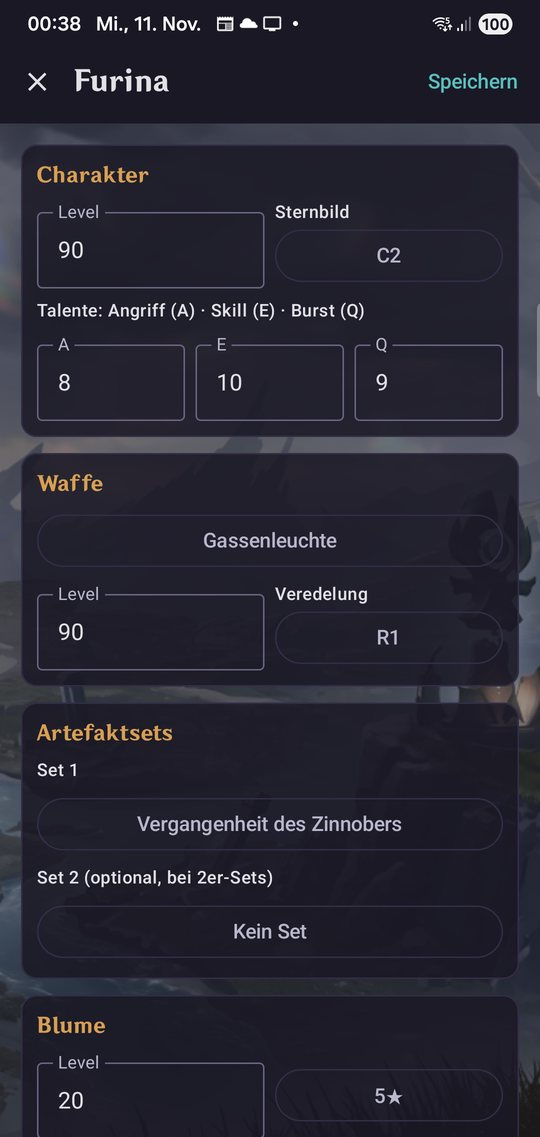
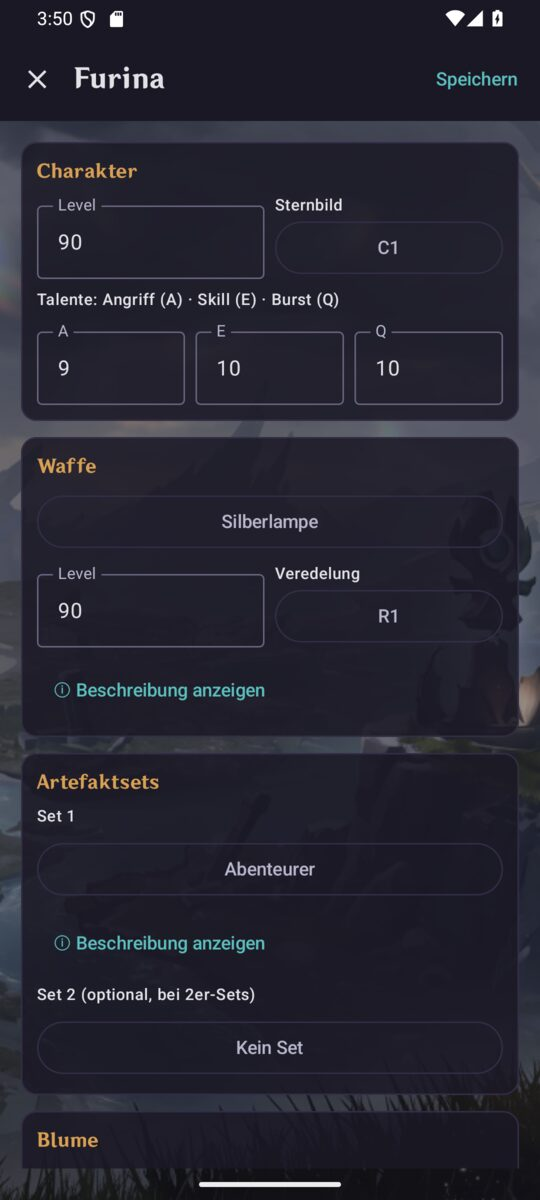
Anleitung aktualisiert: Suche, Beschreibungen, Teilnamen, eigene Versionsnummern; neue Screenshots

diff --git a/ANLEITUNG.md b/ANLEITUNG.md
@@ -1,6 +1,6 @@
 # Anleitung für Mitspieler
 
-Mit dem **Team & Build Manager** hältst du deine Genshin-Impact-Teams und die Builds deiner Charaktere an einem Ort fest: Level, Sternbild, Talente, Waffe, Artefaktsets und die Werte aller fünf Artefakte. Du kannst ihn im **Browser** oder als **Android-App** (Handy und Tablet) nutzen; beides greift auf dasselbe Konto zu.
+Mit dem **Team & Build Manager** hältst du deine Genshin-Impact-Teams und die Builds deiner Charaktere an einem Ort fest: Level, Sternbild, Talente, Waffe, Artefaktsets und die Werte aller fünf Artefakte (samt Teilname, Hauptwert und Nebenwerten). Du kannst ihn im **Browser** oder als **Android-App** (Handy und Tablet) nutzen; beides greift auf dasselbe Konto zu.
 
 <p align="center">
   <img src="docs/screenshots/web-overview.jpg" alt="Übersicht aller Teams im Browser" width="720">
@@ -10,13 +10,13 @@ Mit dem **Team & Build Manager** hältst du deine Genshin-Impact-Teams und die B
 
 Eine Technik-Beschreibung für Entwickler steht in der [README](README.md).
 
-**Inhalt:** [Loslegen](#loslegen) · [Teams und Builds](#teams-und-builds) · [Android-App](#android-app) · [Passwort ändern](#passwort-ändern) · [Konto löschen](#konto-löschen) · [Über-Dialog und Version](#über-dialog-und-version) · [Daten mitnehmen](#daten-mitnehmen-oder-übertragen) · [Neue Charaktere eintragen](#neue-charaktere-und-waffen-eintragen-administratoren) · [Desktop-Version](#desktop-version-optional) · [Wenn etwas nicht klappt](#wenn-etwas-nicht-klappt)
+**Inhalt:** [Loslegen](#loslegen) · [Teams und Builds](#teams-und-builds) · [Suchen und Beschreibungen](#suchen-filtern-und-beschreibungen) · [Android-App](#android-app) · [Passwort ändern](#passwort-ändern) · [Konto löschen](#konto-löschen) · [Über-Dialog und Version](#über-dialog-und-version) · [Daten mitnehmen](#daten-mitnehmen-oder-übertragen) · [Neue Charaktere eintragen](#neue-charaktere-und-waffen-eintragen-administratoren) · [Desktop-Version](#desktop-version-optional) · [Wenn etwas nicht klappt](#wenn-etwas-nicht-klappt)
 
 ## Loslegen
 
 1. **Konto anlegen:** Öffne <https://genshin-manager.media-matrix.de> und wähle „Jetzt registrieren“. Der Benutzername braucht mindestens 3 Zeichen, das Passwort mindestens 6.
 2. **Anmelden** mit demselben Konto, im Browser oder in der App.
-3. **Teams anlegen:** Ein Team besteht aus bis zu 4 Charakteren. Name vergeben, Charaktere aus der Liste wählen (mit Suche), speichern.
+3. **Teams anlegen:** Ein Team besteht aus bis zu 4 Charakteren. Name vergeben, Charaktere aus der Liste wählen (mit Suche und Filtern), speichern. Ein bestehendes Team kannst du jederzeit **umbenennen**.
 4. **Builds pflegen:** Öffne in einem Team einen Charakter und lege seinen Build an oder bearbeite ihn.
 
 <table>
@@ -31,7 +31,9 @@ In der App ist das Feld **„Server“** schon mit `https://genshin-manager.medi
 ## Teams und Builds
 
 - **Ein Build gehört zum Charakter, nicht zum Team.** Steht Furina in drei Teams, hat sie überall denselben Build. Änderst du ihn, ändert er sich in allen Teams.
-- **Teams sortieren:** Mit den Pfeilen auf der Teamkarte verschiebst du Teams; im Browser geht das auch per Drag & Drop. Die Reihenfolge wird gespeichert.
+- **Teams sortieren:** Mit den Pfeilen auf der Teamkarte verschiebst du Teams; im Browser geht das auch per Drag & Drop. Auch die Reihenfolge der Charaktere im Team lässt sich ändern. Alles wird gespeichert.
+- **Startseite:** Nach der Anmeldung siehst du alle deine Teams auf einen Blick; ein Klick auf ein Team öffnet es.
+- **Stat-Namen:** Verteidigung heißt überall „VTD“ (also „VTD%“ und „VTD (Fix)“). Ältere Builds mit „DEF“ werden automatisch umgestellt.
 - **Deine Daten sind nur deine:** Jedes Konto sieht nur die eigenen Teams und Builds.
 
 **Im Browser** findest du Alle Teams, Neues Team, Exportieren, Importieren, Logout, Passwort ändern, Konto löschen und Über im Benutzermenü oben rechts (für Administratoren zusätzlich „Stammdaten aktualisieren“ nach „Importieren“):
@@ -40,7 +42,13 @@ In der App ist das Feld **„Server“** schon mit `https://genshin-manager.medi
   <img src="docs/screenshots/web-menu.jpg" alt="Benutzermenü im Browser" width="560">
 </p>
 
-Einen Charakter öffnest du per Klick und trägst Level, Sternbild, Waffe, Artefaktsets und die Werte der fünf Artefakt-Slots ein:
+Ein einzelnes Team zeigt die Charaktere mit Level und Sternbild; ein Klick auf einen Charakter öffnet seinen Build:
+
+<p align="center">
+  <img src="docs/screenshots/web-team.jpg" alt="Ein Team im Browser" width="720">
+</p>
+
+Dort trägst du Level, Sternbild, Talente, Waffe, Artefaktsets und die Werte der fünf Artefakt-Slots ein. Je Slot wählst du den **Namen des Teils** (z. B. „Zuflucht des Gladiators“) aus einer Liste mit Suchfeld: Die Teile deiner gewählten Sets stehen oben, darunter alle anderen, damit auch ein Off-Piece (bei 4er-Sets oder Mischungen) möglich ist.
 
 <p align="center">
   <img src="docs/screenshots/web-build.jpg" alt="Build eines Charakters im Browser" width="720">
@@ -58,6 +66,23 @@ Einen Charakter öffnest du per Klick und trägst Level, Sternbild, Waffe, Artef
 
 Beim Verlassen mit ungespeicherten Änderungen fragt die App nach, bevor sie etwas verwirft.
 
+## Suchen, Filtern und Beschreibungen
+
+- **Charaktere suchen:** Die Auswahl hat ein Suchfeld und Filter nach **Region**, **Element** und **Seltenheit**. Die Regionen entstehen aus den vorhandenen Charakteren; neue Regionen erscheinen von selbst.
+- **Waffen suchen:** Filter nach **Waffentyp** und **Seltenheit** plus Suchfeld.
+- **Beschreibungen:** Fährst du im Browser mit der Maus über ein Artefaktset, bekommst du die **Set-Boni** (1er/2er/4er); an der Waffe steht das **Passiv**, passend zur gewählten Veredelung. Am Desktop funktioniert das genauso. In der **Android-App** tippst du auf „ⓘ Beschreibung anzeigen“, um den Text aufzuklappen.
+
+<table>
+  <tr>
+    <td align="center"><img src="docs/screenshots/web-character-search.jpg" alt="Charaktersuche im Browser" width="420"><br><sub>Charaktere filtern</sub></td>
+    <td align="center"><img src="docs/screenshots/web-weapon-search.jpg" alt="Waffensuche im Browser" width="420"><br><sub>Waffen filtern, mit Passiv</sub></td>
+  </tr>
+</table>
+
+<p align="center">
+  <img src="docs/screenshots/android-phone-info.jpg" alt="Aufgeklappte Waffenbeschreibung in der App" width="240">
+</p>
+
 ## Android-App
 
 **Voraussetzung:** Android 8.0 oder neuer. Die App gibt es nicht im Play Store; du bekommst die Datei `app-release.apk` direkt von mir.
@@ -70,7 +95,7 @@ Beim Verlassen mit ungespeicherten Änderungen fragt die App nach, bevor sie etw
 **Aktualisieren:** Neue APK einfach über die alte installieren. Deine Anmeldung und Daten bleiben erhalten.
 
 **Handy und Tablet**
-- Das **Handy** bleibt im Hochformat, mit einer Spalte.
+- Das **Handy** zeigt eine Spalte.
 - Auf dem **Tablet** darf der Bildschirm gedreht werden. Teams stehen dort in zwei (Hochformat) oder drei Spalten (Querformat), Builds zweispaltig, sodass nichts verschenkt wird:
 
 <table>
@@ -89,7 +114,7 @@ Beim Bearbeiten stehen die Eingabefelder auf dem Tablet ebenfalls in zwei Spalte
 **Menü (⋮ oben rechts):** Abmelden, Über (Version) und Konto löschen (ein „Passwort ändern“ gibt es in der App nicht, das geht im Browser). „Neu laden“ (Pfeil daneben) holt den aktuellen Stand vom Server.
 
 <p align="center">
-  <img src="docs/screenshots/android-tablet-menu.jpg" alt="Menü der App" width="520">
+  <img src="docs/screenshots/android-phone-menu.jpg" alt="Menü der App" width="240">
 </p>
 
 **Ohne Internet:** Die zuletzt geladenen Teams und Builds lassen sich auch offline ansehen. Bearbeiten geht nur mit Verbindung; die App zeigt dann „Offline – Stand vom …“ an. Über „Neu laden“ wird es erneut versucht.
@@ -122,7 +147,7 @@ Du bestätigst mit deinem Passwort. Stimmt es nicht, bleibt alles unverändert u
 
 ## Über-Dialog und Version
 
-Im Browser (Benutzermenü → „Über“), in der App (Menü ⋮ → „Über“) und am Desktop (Hilfe → „Über…“) zeigt ein kleiner Dialog die **Version**, einen Hinweis zum Fanprojekt und das Logo von the media-matrix. Ein Klick bzw. Tipp auf das Logo öffnet www.media-matrix.de. Nenne mir die Version, wenn du einen Fehler meldest: Web, Android und Desktop haben dieselbe Nummer.
+Im Browser (Benutzermenü → „Über“), in der App (Menü ⋮ → „Über“) und am Desktop (Hilfe → „Über…“) zeigt ein kleiner Dialog die **Version**, einen Hinweis zum Fanprojekt und das Logo von the media-matrix. Ein Klick bzw. Tipp auf das Logo öffnet www.media-matrix.de. Nenne mir die Version, wenn du einen Fehler meldest: Die drei Varianten haben **eigene Versionsnummern** (aktuell Web 1.8.0, Android und Desktop 1.7.2), denn der Browser bekommt Neuerungen früher als App und Desktop. Der Verlauf steht im [CHANGELOG](CHANGELOG.md).
 
 <table>
   <tr>
@@ -155,12 +180,16 @@ Wer kein Administrator ist, sieht den Punkt nicht; fehlt dir ein Charakter oder 
 
 ## Desktop-Version (optional)
 
-Es gibt auch eine Desktop-App, die ihre Daten lokal in einer Datei speichert und **kein Konto** braucht. Sie läuft direkt aus dem Quellcode (Python und PySide6, siehe [desktop/README.md](desktop/README.md)); Builds und Teams lassen sich per JSON-Export mit der Web-Version austauschen.
+Es gibt auch eine Desktop-App, die ihre Daten lokal in einer Datei speichert und **kein Konto** braucht. Sie läuft direkt aus dem Quellcode (Python und PySide6, siehe [desktop/README.md](desktop/README.md)); Builds und Teams lassen sich per JSON-Export mit der Web-Version austauschen. Sie kennt Teams, Builds, Teilnamen, Tooltips mit Set-Boni und Waffen-Passiv, Such- und Filterfunktionen sowie die Ansicht „Alle Teams“; „Passwort ändern“ und die Stammdaten-Aktualisierung gibt es nur im Browser.
 
 <table>
   <tr>
     <td align="center"><img src="docs/screenshots/desktop-overview.jpg" alt="Desktop: Teamübersicht" width="420"><br><sub>Teamübersicht</sub></td>
     <td align="center"><img src="docs/screenshots/desktop-build.jpg" alt="Desktop: Build eines Charakters" width="420"><br><sub>Build eines Charakters</sub></td>
+  </tr>
+  <tr>
+    <td align="center"><img src="docs/screenshots/desktop-all-teams.jpg" alt="Desktop: Alle Teams" width="420"><br><sub>Alle Teams</sub></td>
+    <td align="center"><img src="docs/screenshots/desktop-weapon-search.jpg" alt="Desktop: Waffensuche" width="420"><br><sub>Waffensuche</sub></td>
   </tr>
 </table>
 
@@ -174,6 +203,7 @@ Es gibt auch eine Desktop-App, die ihre Daten lokal in einer Datei speichert und
 | App zeigt „Offline“ | Internetverbindung prüfen, dann „Neu laden“. |
 | Anmeldung in der App schlägt fehl | Prüfe, ob im Feld „Server“ `https://genshin-manager.media-matrix.de/` steht. |
 | Installation der APK wird abgelehnt | Installation aus dieser Quelle in den Android-Einstellungen erlauben. |
+| Ein Tooltip oder die Beschreibung fehlt | Im Browser über das Element fahren; in der App „ⓘ Beschreibung anzeigen“ antippen. Fehlt sie dort, ist sie noch nicht in den Daten; melde es dem Betreiber. |
 | Ein Charakter oder eine Waffe fehlt | Ein Administrator trägt ihn im Browser über „Stammdaten aktualisieren“ ein; sonst beim Betreiber melden. |
 | „Benutzername oder Passwort falsch.“ | Auf Groß- und Kleinschreibung achten. Passwort-Manager füllen manchmal ein **altes** Passwort ein: im privaten Fenster und von Hand eintippen. |
 | „Das aktuelle Passwort ist falsch.“ beim Ändern | Aktuelles Passwort prüfen; das neue muss 6 bis 72 Zeichen lang sein und sich vom alten unterscheiden. |
